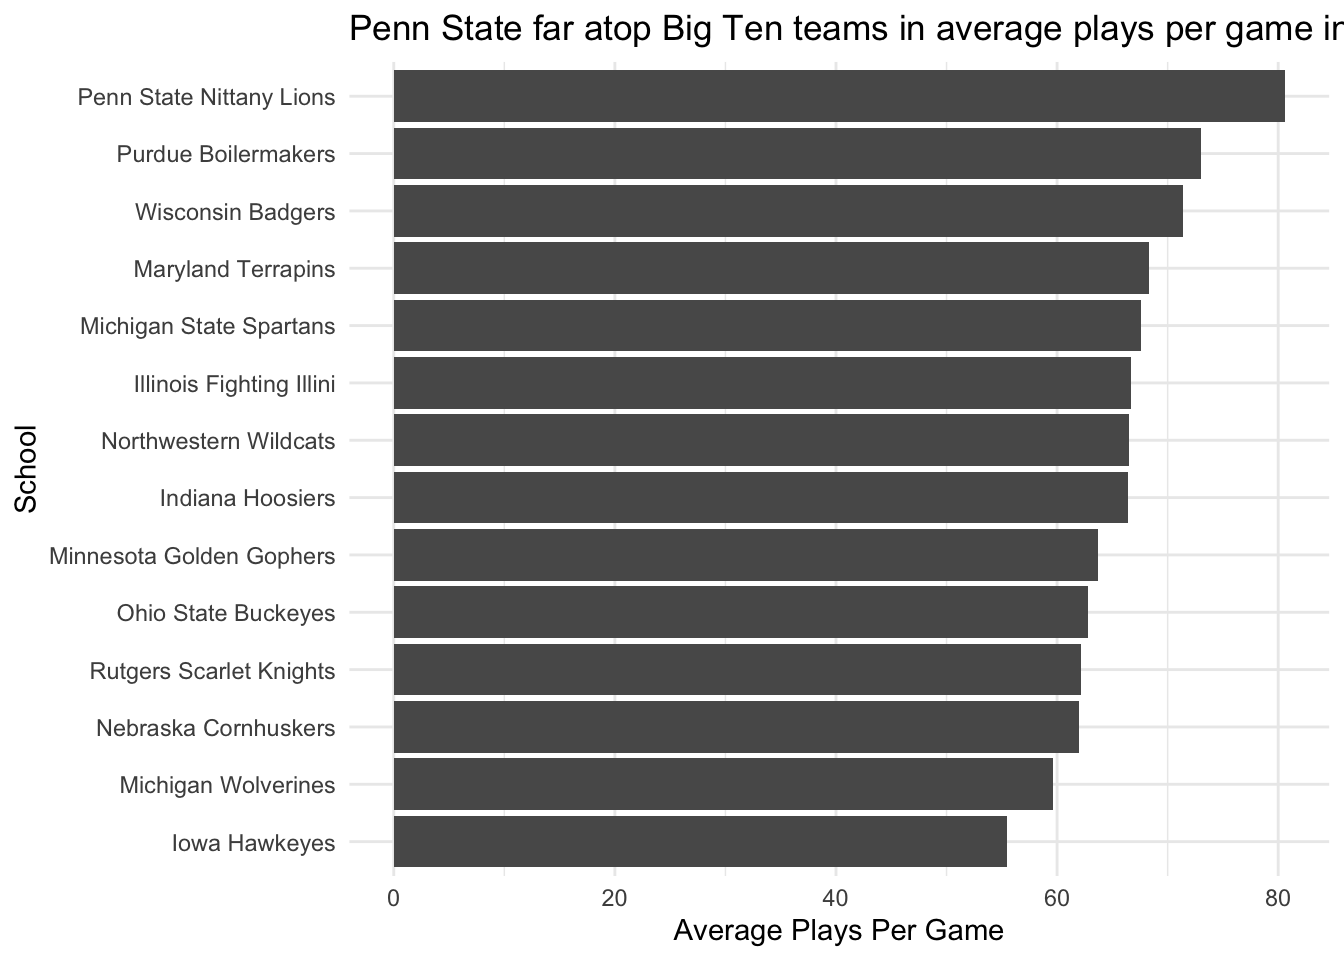
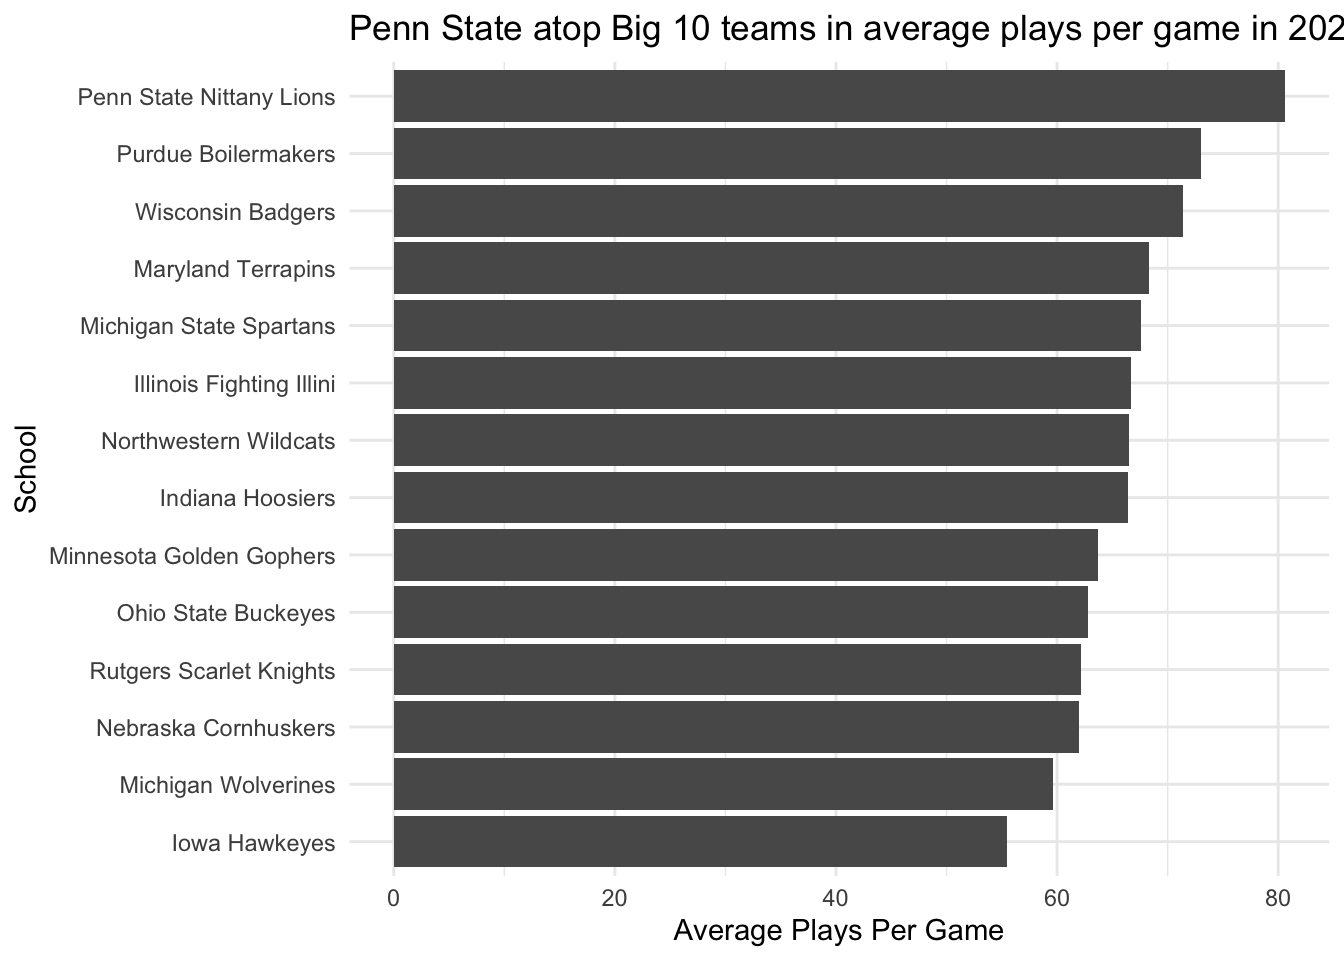
big

Changed region(s): [[0.4062, 0.0, 1.0, 0.0625]]

diff --git a/docs/posts/less-cfb-plays-2023-than-2022/index.html b/docs/posts/less-cfb-plays-2023-than-2022/index.html
@@ -266,7 +266,7 @@ date  (1): Date
 <span id="cb10-5"><a href="#cb10-5" aria-hidden="true" tabindex="-1"></a>      <span class="at">x=</span><span class="fu">reorder</span>(TeamFull, avgPlays), <span class="at">weight =</span> avgPlays)</span>
 <span id="cb10-6"><a href="#cb10-6" aria-hidden="true" tabindex="-1"></a>  ) <span class="sc">+</span></span>
 <span id="cb10-7"><a href="#cb10-7" aria-hidden="true" tabindex="-1"></a>  <span class="fu">labs</span>(</span>
-<span id="cb10-8"><a href="#cb10-8" aria-hidden="true" tabindex="-1"></a>    <span class="at">title=</span><span class="st">"Purdue slightly atop Big Ten teams in average plays per game in 2022"</span>, </span>
+<span id="cb10-8"><a href="#cb10-8" aria-hidden="true" tabindex="-1"></a>    <span class="at">title=</span><span class="st">"Purdue atop Big 10 teams in average plays per game in 2022"</span>, </span>
 <span id="cb10-9"><a href="#cb10-9" aria-hidden="true" tabindex="-1"></a>    <span class="at">x=</span><span class="st">"School"</span>, </span>
 <span id="cb10-10"><a href="#cb10-10" aria-hidden="true" tabindex="-1"></a>    <span class="at">y=</span><span class="st">"Average Plays Per Game"</span></span>
 <span id="cb10-11"><a href="#cb10-11" aria-hidden="true" tabindex="-1"></a>  ) <span class="sc">+</span> </span>
@@ -307,7 +307,7 @@ date  (1): Date
 <span id="cb13-5"><a href="#cb13-5" aria-hidden="true" tabindex="-1"></a>      <span class="at">x=</span><span class="fu">reorder</span>(TeamFull, avgPlays), <span class="at">weight =</span> avgPlays)</span>
 <span id="cb13-6"><a href="#cb13-6" aria-hidden="true" tabindex="-1"></a>  ) <span class="sc">+</span></span>
 <span id="cb13-7"><a href="#cb13-7" aria-hidden="true" tabindex="-1"></a>  <span class="fu">labs</span>(</span>
-<span id="cb13-8"><a href="#cb13-8" aria-hidden="true" tabindex="-1"></a>    <span class="at">title=</span><span class="st">"Penn State far atop Big Ten teams in average plays per game in 2023"</span>, </span>
+<span id="cb13-8"><a href="#cb13-8" aria-hidden="true" tabindex="-1"></a>    <span class="at">title=</span><span class="st">"Penn State atop Big 10 teams in average plays per game in 2023"</span>, </span>
 <span id="cb13-9"><a href="#cb13-9" aria-hidden="true" tabindex="-1"></a>    <span class="at">x=</span><span class="st">"School"</span>, </span>
 <span id="cb13-10"><a href="#cb13-10" aria-hidden="true" tabindex="-1"></a>    <span class="at">y=</span><span class="st">"Average Plays Per Game"</span></span>
 <span id="cb13-11"><a href="#cb13-11" aria-hidden="true" tabindex="-1"></a>  ) <span class="sc">+</span> </span>

diff --git a/docs/index.html b/docs/index.html
@@ -170,7 +170,7 @@ ul.task-list li input[type="checkbox"] {
 
 <div class="quarto-listing quarto-listing-container-default" id="listing-listing">
 <div class="list quarto-listing-default">
-<div class="quarto-post image-right" data-index="0" data-listing-date-sort="1696910400000" data-listing-file-modified-sort="1696977625825" data-listing-date-modified-sort="NaN" data-listing-reading-time-sort="4">
+<div class="quarto-post image-right" data-index="0" data-listing-date-sort="1696910400000" data-listing-file-modified-sort="1696977704593" data-listing-date-modified-sort="NaN" data-listing-reading-time-sort="4">
 <div class="thumbnail">
 <p><a href="./posts/less-cfb-plays-2023-than-2022/index.html"> <p class="card-img-top"><img src="posts/less-cfb-plays-2023-than-2022/index_files/figure-html/unnamed-chunk-6-1.png"  class="thumbnail-image card-img"/></p> </a></p>
 </div>
